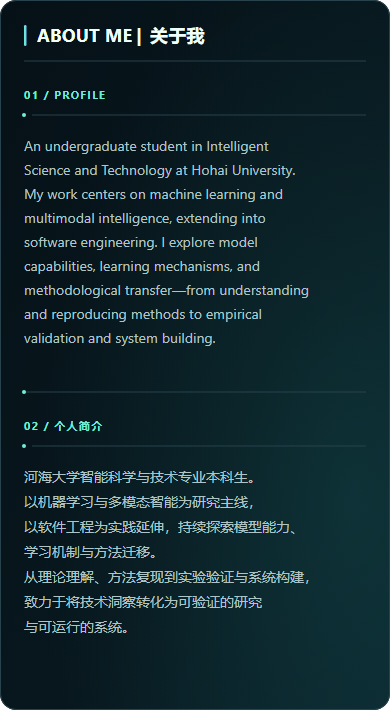
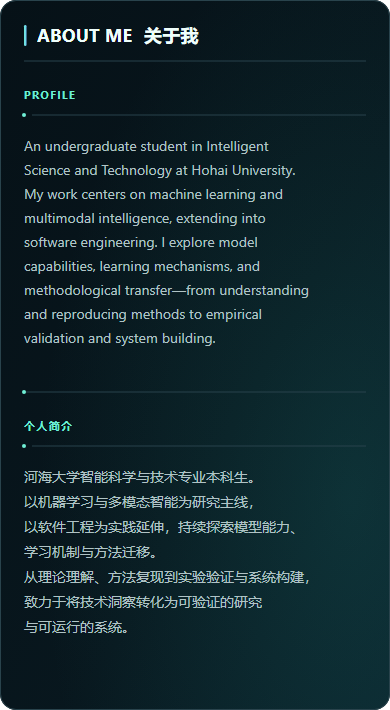
Refine profile card labels and dark snake

Changed region(s): [[0.0615, 0.5887, 0.2769, 0.6197], [0.0615, 0.1239, 0.2769, 0.1549], [0.3385, 0.031, 0.5231, 0.062]]

diff --git a/docs/design/about-me-preview.html b/docs/design/about-me-preview.html
@@ -14,7 +14,7 @@
   <main>
     <picture>
       <source media="(max-width: 640px)" srcset="../../assets/about-me-mobile.svg">
-      <img src="../../assets/about-me.svg" alt="ABOUT ME | 关于我. An undergraduate student in Intelligent Science and Technology at Hohai University. My work centers on machine learning and multimodal intelligence, extending into software engineering. I explore model capabilities, learning mechanisms, and methodological transfer—from understanding and reproducing methods to empirical validation and system building. 河海大学智能科学与技术专业本科生。以机器学习与多模态智能为研究主线，以软件工程为实践延伸，持续探索模型能力、学习机制与方法迁移。从理论理解、方法复现到实验验证与系统构建，致力于将技术洞察转化为可验证的研究与可运行的系统。">
+      <img src="../../assets/about-me.svg" alt="ABOUT ME 关于我. An undergraduate student in Intelligent Science and Technology at Hohai University. My work centers on machine learning and multimodal intelligence, extending into software engineering. I explore model capabilities, learning mechanisms, and methodological transfer—from understanding and reproducing methods to empirical validation and system building. 河海大学智能科学与技术专业本科生。以机器学习与多模态智能为研究主线，以软件工程为实践延伸，持续探索模型能力、学习机制与方法迁移。从理论理解、方法复现到实验验证与系统构建，致力于将技术洞察转化为可验证的研究与可运行的系统。">
     </picture>
   </main>
 </body>

diff --git a/README.md b/README.md
@@ -7,18 +7,14 @@
 <br/>
 
 <!-- ═══════════ SNAKE ANIMATION ═══════════ -->
-<picture>
-  <source media="(prefers-color-scheme: dark)" srcset="https://raw.githubusercontent.com/spinner-bot/spinner-bot/output/github-contribution-grid-snake-dark.svg">
-  <source media="(prefers-color-scheme: light)" srcset="https://raw.githubusercontent.com/spinner-bot/spinner-bot/output/github-contribution-grid-snake.svg">
-  <img alt="github contribution grid snake animation" src="https://raw.githubusercontent.com/spinner-bot/spinner-bot/output/github-contribution-grid-snake.svg">
-</picture>
+<img alt="GitHub contribution grid snake animation" src="https://raw.githubusercontent.com/spinner-bot/spinner-bot/output/github-contribution-grid-snake-dark.svg" width="100%">
 
 <br/>
 </div>
 
 <picture>
   <source media="(max-width: 640px)" srcset="assets/about-me-mobile.svg">
-  <img src="assets/about-me.svg" alt="ABOUT ME | 关于我. An undergraduate student in Intelligent Science and Technology at Hohai University. My work centers on machine learning and multimodal intelligence, extending into software engineering. I explore model capabilities, learning mechanisms, and methodological transfer—from understanding and reproducing methods to empirical validation and system building. 河海大学智能科学与技术专业本科生。以机器学习与多模态智能为研究主线，以软件工程为实践延伸，持续探索模型能力、学习机制与方法迁移。从理论理解、方法复现到实验验证与系统构建，致力于将技术洞察转化为可验证的研究与可运行的系统。" width="100%" />
+  <img src="assets/about-me.svg" alt="ABOUT ME 关于我. An undergraduate student in Intelligent Science and Technology at Hohai University. My work centers on machine learning and multimodal intelligence, extending into software engineering. I explore model capabilities, learning mechanisms, and methodological transfer—from understanding and reproducing methods to empirical validation and system building. 河海大学智能科学与技术专业本科生。以机器学习与多模态智能为研究主线，以软件工程为实践延伸，持续探索模型能力、学习机制与方法迁移。从理论理解、方法复现到实验验证与系统构建，致力于将技术洞察转化为可验证的研究与可运行的系统。" width="100%" />
 </picture>
 
 <!-- Temporarily hidden; preserved for later reuse.

diff --git a/docs/design/about-me-v1.md b/docs/design/about-me-v1.md
@@ -4,9 +4,9 @@
 
 ## 内容与顺序
 
-- 标题：`ABOUT ME · 关于我`，英语在前。
+- 标题：`ABOUT ME 关于我`，英语在前，中间以空格连接。
 - 左栏为用户提供的英文原文，右栏为中文原文；两栏保持相同的语义顺序，不改写正文。
-- 栏目眉题分别标为 `01 / PROFILE` 与 `02 / 个人简介`，不出现语言名称标签。
+- 栏目眉题分别标为 `PROFILE` 与 `个人简介`，不出现序号或语言名称标签。
 
 ## 视觉实现
 
